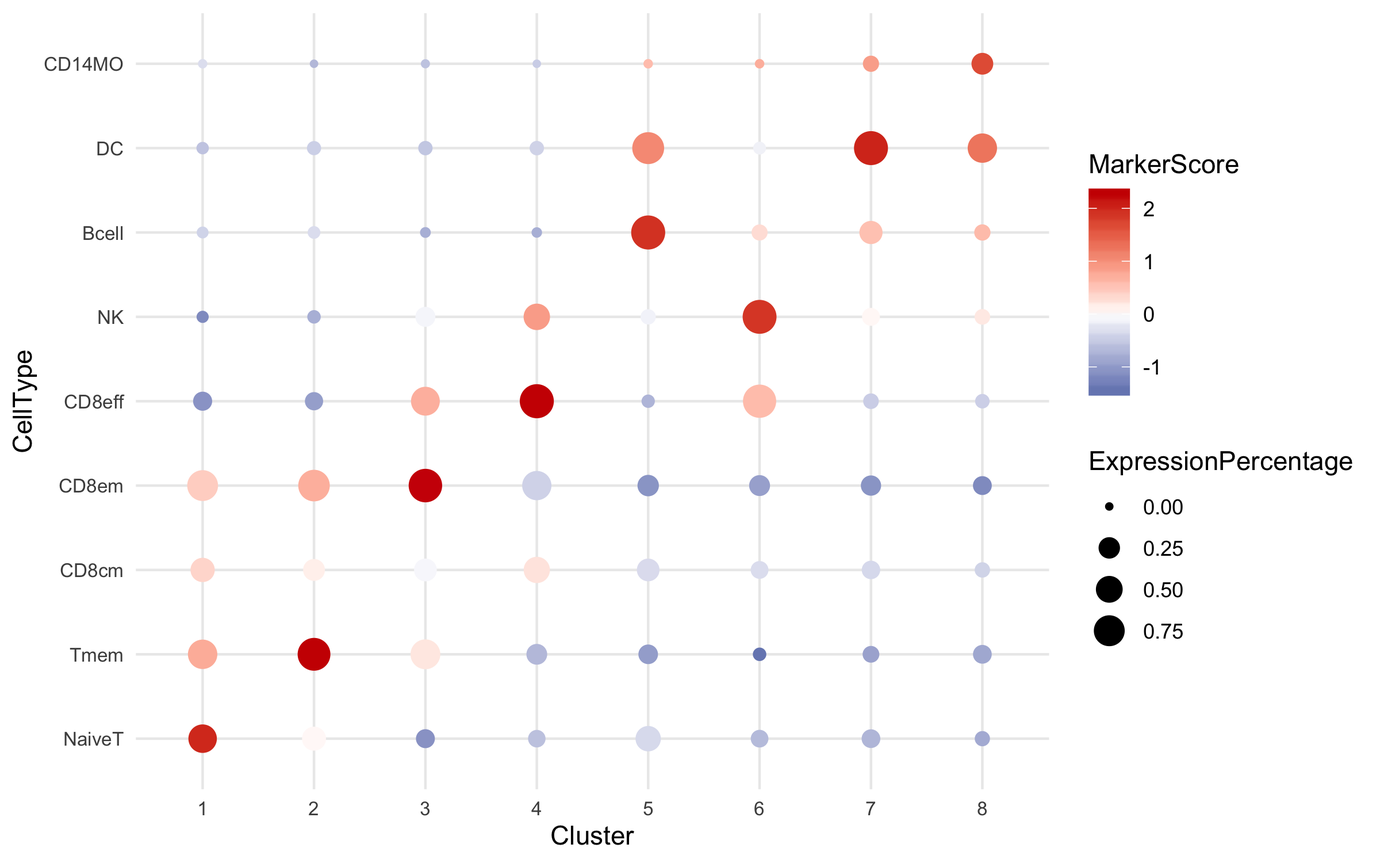
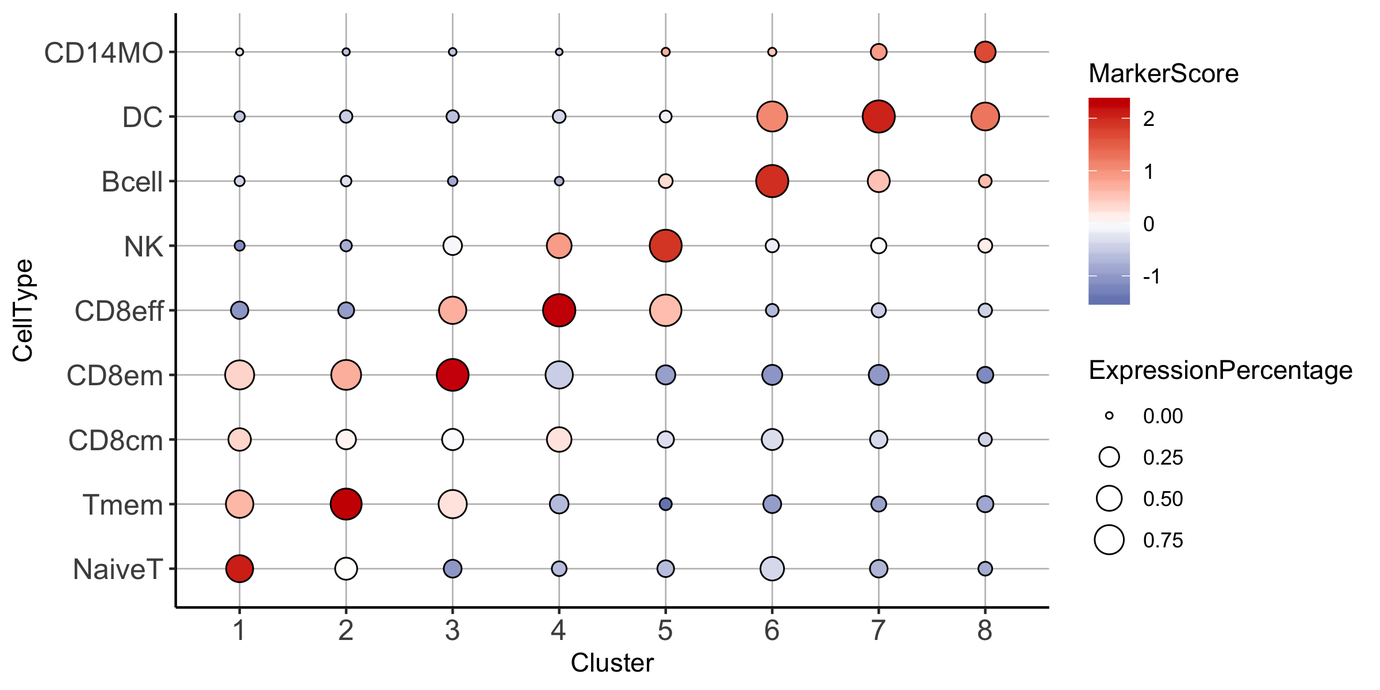
update scMINER tutorial; fix FindDAG and feature_heatmap functions

diff --git a/docs/_site/docs/PBMC-12k.html b/docs/_site/docs/PBMC-12k.html
@@ -209,7 +209,7 @@
 </span><span class="n">exp.log2</span><span class="w"> </span><span class="o">&lt;-</span><span class="w"> </span><span class="nf">log</span><span class="p">(</span><span class="n">exp.norm</span><span class="m">+1</span><span class="p">,</span><span class="n">base</span><span class="o">=</span><span class="m">2</span><span class="p">)</span><span class="w">
 
 </span><span class="c1"># save as SparseEset</span><span class="w">
-</span><span class="n">eset.norm</span><span class="w"> </span><span class="o">&lt;-</span><span class="w"> </span><span class="n">CreateSparseEset</span><span class="p">(</span><span class="n">data</span><span class="o">=</span><span class="n">exp.log2</span><span class="p">,</span><span class="w"> </span><span class="n">meta.data</span><span class="w"> </span><span class="o">=</span><span class="w"> </span><span class="n">pData</span><span class="p">(</span><span class="n">eset.sel</span><span class="p">),</span><span class="w"> </span><span class="n">feature.data</span><span class="w"> </span><span class="o">=</span><span class="w"> </span><span class="n">fData</span><span class="p">(</span><span class="n">eset.sel</span><span class="p">),</span><span class="w"> </span><span class="n">add.meta</span><span class="w"> </span><span class="o">=</span><span class="w"> </span><span class="nb">F</span><span class="p">)</span><span class="w">
+</span><span class="n">eset.log2</span><span class="w"> </span><span class="o">&lt;-</span><span class="w"> </span><span class="n">CreateSparseEset</span><span class="p">(</span><span class="n">data</span><span class="o">=</span><span class="n">exp.log2</span><span class="p">,</span><span class="w"> </span><span class="n">meta.data</span><span class="w"> </span><span class="o">=</span><span class="w"> </span><span class="n">pData</span><span class="p">(</span><span class="n">eset.sel</span><span class="p">),</span><span class="w"> </span><span class="n">feature.data</span><span class="w"> </span><span class="o">=</span><span class="w"> </span><span class="n">fData</span><span class="p">(</span><span class="n">eset.sel</span><span class="p">),</span><span class="w"> </span><span class="n">add.meta</span><span class="w"> </span><span class="o">=</span><span class="w"> </span><span class="nb">F</span><span class="p">)</span><span class="w">
 </span></code></pre></div></div>
 
 <h2 class="d-inline-block" id="step-2-perform-clustering-analysis-via-mica">Step 2: Perform clustering analysis via MICA</h2>
@@ -243,14 +243,14 @@
   <p><strong>Note: All functions are designed compatible for both expressionSet and SparseExpressionSet</strong></p>
 </blockquote>
 
-<p>Users shall start with one particular MICA membership and study your optimal number of cluster with cell type signatures. By setting <code class="highlighter-rouge">load_clust_label</code> as TRUE, clustering label will be saved under <code class="highlighter-rouge">eset$label</code>.</p>
+<p>Users shall start with one particular MICA membership and study your optimal number of cluster with cell type signatures. By setting <code class="highlighter-rouge">load_ClusterRes</code> as TRUE, clustering label will be saved under <code class="highlighter-rouge">eset$ClusterRes</code>.</p>
 
-<div class="language-R highlighter-rouge"><div class="highlight"><pre class="highlight"><code><span class="n">eset.12k</span><span class="w"> </span><span class="o">&lt;-</span><span class="w"> </span><span class="n">readMICAoutput</span><span class="p">(</span><span class="n">Obj</span><span class="w"> </span><span class="o">=</span><span class="w"> </span><span class="n">d.sel</span><span class="p">,</span><span class="w"> </span><span class="n">load_clust_label</span><span class="w"> </span><span class="o">=</span><span class="w"> </span><span class="kc">TRUE</span><span class="p">,</span><span class="w"> </span><span class="n">output_file</span><span class="w"> </span><span class="o">=</span><span class="w"> </span><span class="s2">"MICA/PBMC12k_k8_tsne_ClusterMem.txt"</span><span class="p">)</span><span class="w">
+<div class="language-R highlighter-rouge"><div class="highlight"><pre class="highlight"><code><span class="n">eset</span><span class="w"> </span><span class="o">&lt;-</span><span class="w"> </span><span class="n">readMICAoutput</span><span class="p">(</span><span class="n">eset</span><span class="w"> </span><span class="o">=</span><span class="w"> </span><span class="n">eset.norm</span><span class="p">,</span><span class="w"> </span><span class="n">load_ClusterRes</span><span class="w"> </span><span class="o">=</span><span class="w"> </span><span class="kc">TRUE</span><span class="p">,</span><span class="w"> </span><span class="n">output_file</span><span class="w"> </span><span class="o">=</span><span class="w"> </span><span class="s2">"MICA/PBMC12k_k8_tsne_ClusterMem.txt"</span><span class="p">)</span><span class="w">
 </span></code></pre></div></div>
 
 <p>In order to visualize MICA labels or other metadata on tSNE/UMAP coordinates, your can use function <code class="highlighter-rouge">MICAplot</code>. Users are required to specify <code class="highlighter-rouge">X</code> and <code class="highlighter-rouge">Y</code> coordinates in this function. Other meta data could also be visualized by changing <code class="highlighter-rouge">label</code> handler. This function outputs a ggplot object.</p>
 
-<div class="language-R highlighter-rouge"><div class="highlight"><pre class="highlight"><code><span class="n">MICAplot</span><span class="p">(</span><span class="n">input_eset</span><span class="w"> </span><span class="o">=</span><span class="w"> </span><span class="n">eset.12k</span><span class="p">,</span><span class="n">visualize</span><span class="w"> </span><span class="o">=</span><span class="w"> </span><span class="s1">'tSNE'</span><span class="p">,</span><span class="n">X</span><span class="w"> </span><span class="o">=</span><span class="w"> </span><span class="s2">"X"</span><span class="p">,</span><span class="w"> </span><span class="n">Y</span><span class="o">=</span><span class="s2">"Y"</span><span class="p">,</span><span class="n">label</span><span class="w"> </span><span class="o">=</span><span class="w"> </span><span class="s2">"label"</span><span class="p">,</span><span class="n">pct</span><span class="w"> </span><span class="o">=</span><span class="w"> </span><span class="m">0.5</span><span class="p">)</span><span class="w">
+<div class="language-R highlighter-rouge"><div class="highlight"><pre class="highlight"><code><span class="n">MICAplot</span><span class="p">(</span><span class="n">input_eset</span><span class="w"> </span><span class="o">=</span><span class="w"> </span><span class="n">eset</span><span class="p">,</span><span class="n">visualize</span><span class="w"> </span><span class="o">=</span><span class="w"> </span><span class="s1">'tSNE'</span><span class="p">,</span><span class="n">X</span><span class="w"> </span><span class="o">=</span><span class="w"> </span><span class="s2">"X"</span><span class="p">,</span><span class="w"> </span><span class="n">Y</span><span class="o">=</span><span class="s2">"Y"</span><span class="p">,</span><span class="n">label</span><span class="w"> </span><span class="o">=</span><span class="w"> </span><span class="s2">"label"</span><span class="p">,</span><span class="n">pct</span><span class="w"> </span><span class="o">=</span><span class="w"> </span><span class="m">0.5</span><span class="p">)</span><span class="w">
 </span></code></pre></div></div>
 
 <center><img src="./plots/3_0_MICA_k8.png" alt="MICA" width="600" /></center>
@@ -262,22 +262,22 @@
 <div class="language-R highlighter-rouge"><div class="highlight"><pre class="highlight"><code><span class="n">gn.sel</span><span class="o">&lt;-</span><span class="nf">c</span><span class="p">(</span><span class="s2">"CD3D"</span><span class="p">,</span><span class="s2">"CD27"</span><span class="p">,</span><span class="s2">"IL7R"</span><span class="p">,</span><span class="s2">"SELL"</span><span class="p">,</span><span class="s2">"CCR7"</span><span class="p">,</span><span class="s2">"IL32"</span><span class="p">,</span><span class="s2">"GZMA"</span><span class="p">,</span><span class="w">
           </span><span class="s2">"GZMK"</span><span class="p">,</span><span class="s2">"DUSP2"</span><span class="p">,</span><span class="s2">"CD8A"</span><span class="p">,</span><span class="s2">"GZMH"</span><span class="p">,</span><span class="s2">"GZMB"</span><span class="p">,</span><span class="s2">"CD79A"</span><span class="p">,</span><span class="s2">"CD79B"</span><span class="p">,</span><span class="s2">"CD86"</span><span class="p">,</span><span class="s2">"CD14"</span><span class="p">)</span><span class="w">
 
-</span><span class="n">p</span><span class="w"> </span><span class="o">&lt;-</span><span class="w"> </span><span class="n">feature_highlighting</span><span class="p">(</span><span class="n">input_eset</span><span class="w"> </span><span class="o">=</span><span class="w"> </span><span class="n">eset.12k</span><span class="p">,</span><span class="n">target</span><span class="w"> </span><span class="o">=</span><span class="w"> </span><span class="n">gn.sel</span><span class="p">,</span><span class="w">
-	</span><span class="n">ylabel</span><span class="w"> </span><span class="o">=</span><span class="w"> </span><span class="s2">"log2Exp"</span><span class="p">,</span><span class="w"> </span><span class="n">x</span><span class="o">=</span><span class="s2">"X"</span><span class="p">,</span><span class="n">y</span><span class="o">=</span><span class="s2">"Y"</span><span class="p">,</span><span class="n">title.size</span><span class="w"> </span><span class="o">=</span><span class="w"> </span><span class="m">12</span><span class="p">)</span><span class="w">
+</span><span class="n">p</span><span class="w"> </span><span class="o">&lt;-</span><span class="w"> </span><span class="n">feature_highlighting</span><span class="p">(</span><span class="n">input_eset</span><span class="w"> </span><span class="o">=</span><span class="w"> </span><span class="n">eset</span><span class="p">,</span><span class="w"> </span><span class="n">target</span><span class="w"> </span><span class="o">=</span><span class="w"> </span><span class="n">gn.sel</span><span class="p">,</span><span class="w"> 
+	</span><span class="n">feature</span><span class="o">=</span><span class="s2">"geneSymbol"</span><span class="p">,</span><span class="n">ylabel</span><span class="w"> </span><span class="o">=</span><span class="w"> </span><span class="s2">"log2Exp"</span><span class="p">,</span><span class="w"> </span><span class="n">x</span><span class="o">=</span><span class="s2">"X"</span><span class="p">,</span><span class="n">y</span><span class="o">=</span><span class="s2">"Y"</span><span class="p">,</span><span class="n">pct.size</span><span class="w"> </span><span class="o">=</span><span class="w"> </span><span class="m">0.5</span><span class="p">)</span><span class="w">
 </span></code></pre></div></div>
 
-<center><img src="./plots/3_1_gene_highlighting.png" alt="Scatterplot" width="600" /></center>
+<center><img src="./plots/3_1_gene_highlighting.png" alt="Scatterplot" width="800" /></center>
 
-<div class="language-R highlighter-rouge"><div class="highlight"><pre class="highlight"><code><span class="n">p</span><span class="w"> </span><span class="o">&lt;-</span><span class="w"> </span><span class="n">feature_vlnplot</span><span class="p">(</span><span class="n">eset.12k</span><span class="p">,</span><span class="n">target</span><span class="o">=</span><span class="n">gn.sel</span><span class="p">,</span><span class="n">feature</span><span class="w"> </span><span class="o">=</span><span class="w"> </span><span class="s2">"geneSymbol"</span><span class="p">,</span><span class="w">
-</span><span class="n">group_tag</span><span class="w"> </span><span class="o">=</span><span class="w"> </span><span class="s2">"label"</span><span class="p">,</span><span class="n">ncol</span><span class="w"> </span><span class="o">=</span><span class="w"> </span><span class="m">4</span><span class="p">,</span><span class="n">ylabel</span><span class="w"> </span><span class="o">=</span><span class="w"> </span><span class="s2">"log2Exp"</span><span class="p">)</span><span class="w">
+<div class="language-R highlighter-rouge"><div class="highlight"><pre class="highlight"><code><span class="n">p</span><span class="w"> </span><span class="o">&lt;-</span><span class="w"> </span><span class="n">feature_vlnplot</span><span class="p">(</span><span class="n">input_eset</span><span class="o">=</span><span class="n">eset</span><span class="p">,</span><span class="n">target</span><span class="o">=</span><span class="n">gn.sel</span><span class="p">,</span><span class="n">feature</span><span class="w"> </span><span class="o">=</span><span class="w"> </span><span class="s2">"geneSymbol"</span><span class="p">,</span><span class="w">
+	</span><span class="n">group_tag</span><span class="w"> </span><span class="o">=</span><span class="w"> </span><span class="s2">"ClusterRes"</span><span class="p">,</span><span class="n">ylabel</span><span class="w"> </span><span class="o">=</span><span class="w"> </span><span class="s2">"log2Exp"</span><span class="p">,</span><span class="n">ncol</span><span class="w"> </span><span class="o">=</span><span class="w"> </span><span class="m">4</span><span class="p">)</span><span class="w">
 </span></code></pre></div></div>
-<center><img src="./plots/3_2_gene_highlighting_vlnplot.png" alt="violinplot" width="600" /></center>
+<center><img src="./plots/3_2_gene_highlighting_vlnplot.png" alt="violinplot" width="800" /></center>
 
-<div class="language-R highlighter-rouge"><div class="highlight"><pre class="highlight"><code><span class="n">feature_heatmap</span><span class="p">(</span><span class="n">eset</span><span class="w"> </span><span class="o">=</span><span class="w"> </span><span class="n">eset.12k</span><span class="p">,</span><span class="n">target</span><span class="w"> </span><span class="o">=</span><span class="w"> </span><span class="n">gn.sel</span><span class="p">,</span><span class="n">group_tag</span><span class="w"> </span><span class="o">=</span><span class="w"> </span><span class="s2">"label"</span><span class="p">,</span><span class="w">
-			 </span><span class="n">save_plot</span><span class="w"> </span><span class="o">=</span><span class="w"> </span><span class="kc">TRUE</span><span class="p">,</span><span class="n">width</span><span class="w"> </span><span class="o">=</span><span class="w"> </span><span class="m">6</span><span class="p">,</span><span class="n">height</span><span class="w"> </span><span class="o">=</span><span class="w"> </span><span class="m">6</span><span class="p">,</span><span class="w">
+<div class="language-R highlighter-rouge"><div class="highlight"><pre class="highlight"><code><span class="n">feature_heatmap</span><span class="p">(</span><span class="n">eset</span><span class="w"> </span><span class="o">=</span><span class="w"> </span><span class="n">eset</span><span class="p">,</span><span class="w"> </span><span class="n">target</span><span class="w"> </span><span class="o">=</span><span class="w"> </span><span class="n">gn.sel</span><span class="p">,</span><span class="n">group_tag</span><span class="w"> </span><span class="o">=</span><span class="w"> </span><span class="s2">"ClusterRes"</span><span class="p">,</span><span class="w">
+			 	</span><span class="n">save_plot</span><span class="w"> </span><span class="o">=</span><span class="w"> </span><span class="kc">TRUE</span><span class="p">,</span><span class="n">width</span><span class="w"> </span><span class="o">=</span><span class="w"> </span><span class="m">6</span><span class="p">,</span><span class="n">height</span><span class="w"> </span><span class="o">=</span><span class="w"> </span><span class="m">6</span><span class="p">,</span><span class="w">
              </span><span class="n">name</span><span class="w"> </span><span class="o">=</span><span class="w"> </span><span class="s2">"log2_expression"</span><span class="p">,</span><span class="n">plot_name</span><span class="o">=</span><span class="s2">"./GeneHeatmap.png"</span><span class="p">)</span><span class="w">
 </span></code></pre></div></div>
-<center><img src="./plots/3_3_Marker_heatmaps.png" alt="heatmaps" width="600" /></center>
+<center><img src="./plots/3_3_Marker_heatmaps.png" alt="heatmaps" width="800" /></center>
 
 <h3 id="assign-cell-type-to-cluster">Assign cell type to cluster</h3>
 
@@ -294,15 +294,18 @@
 </span><span class="m">5</span><span class="w">     </span><span class="n">Tmem</span><span class="w">    </span><span class="n">IL32</span><span class="w">      </span><span class="m">1</span><span class="w">
 </span><span class="m">6</span><span class="w">     </span><span class="n">Tmem</span><span class="w">    </span><span class="n">GZMA</span><span class="w">     </span><span class="m">-1</span><span class="w">
 
-</span><span class="n">p</span><span class="o">&lt;-</span><span class="n">marker_bbplot</span><span class="p">(</span><span class="n">ref</span><span class="o">=</span><span class="n">ref</span><span class="p">,</span><span class="n">eset</span><span class="o">=</span><span class="n">eset.12k</span><span class="p">)</span><span class="w">
+</span><span class="n">marker_bbplot</span><span class="p">(</span><span class="n">ref</span><span class="o">=</span><span class="n">ref</span><span class="p">,</span><span class="n">eset</span><span class="o">=</span><span class="n">eset</span><span class="p">,</span><span class="n">width</span><span class="w"> </span><span class="o">=</span><span class="w"> </span><span class="m">6</span><span class="p">,</span><span class="n">height</span><span class="o">=</span><span class="m">4</span><span class="p">,</span><span class="w"> </span><span class="n">feature</span><span class="w"> </span><span class="o">=</span><span class="w"> </span><span class="s2">"geneSymbol"</span><span class="p">,</span><span class="n">group_tag</span><span class="w"> </span><span class="o">=</span><span class="w"> </span><span class="s2">"ClusterRes"</span><span class="p">,</span><span class="w">
+                   </span><span class="n">save_plot</span><span class="w"> </span><span class="o">=</span><span class="w"> </span><span class="kc">TRUE</span><span class="p">,</span><span class="w"> </span><span class="n">plot_name</span><span class="w"> </span><span class="o">=</span><span class="w"> </span><span class="s2">"plots/MICA_cluster_score.png"</span><span class="p">)</span><span class="w">
+
 </span></code></pre></div></div>
-<center><img src="./plots/3_4_MICA_cluster_score.png" alt="Markerbbp" width="600" /></center>
+<center><img src="./plots/3_4_MICA_cluster_score.png" alt="Markerbbp" width="800" /></center>
 
 <p>Before diving into network generation section, please assign your celltype as factors in your expression set. <strong>Please do not include “_” in your cell type names since it will cause mis-parsing in later analysis</strong>.</p>
 
-<div class="language-R highlighter-rouge"><div class="highlight"><pre class="highlight"><code><span class="n">indx</span><span class="o">&lt;-</span><span class="n">factor</span><span class="p">(</span><span class="n">x</span><span class="o">=</span><span class="nf">c</span><span class="p">(</span><span class="s2">"NaiveT"</span><span class="p">,</span><span class="s2">"Tmem"</span><span class="p">,</span><span class="s2">"CD8em"</span><span class="p">,</span><span class="s2">"CD8eff"</span><span class="p">,</span><span class="s2">"Bcell"</span><span class="p">,</span><span class="s2">"NK"</span><span class="p">,</span><span class="s2">"DC"</span><span class="p">,</span><span class="s2">"Mo"</span><span class="p">),</span><span class="w">
-				</span><span class="n">levels</span><span class="o">=</span><span class="nf">c</span><span class="p">(</span><span class="s2">"NaiveT"</span><span class="p">,</span><span class="s2">"Tmem"</span><span class="p">,</span><span class="s2">"CD8em"</span><span class="p">,</span><span class="s2">"CD8eff"</span><span class="p">,</span><span class="s2">"Bcell"</span><span class="p">,</span><span class="s2">"NK"</span><span class="p">,</span><span class="s2">"DC"</span><span class="p">,</span><span class="s2">"Mo"</span><span class="p">))</span><span class="w">
-</span><span class="n">eset.12k</span><span class="o">$</span><span class="n">celltype</span><span class="w"> </span><span class="o">&lt;-</span><span class="w"> </span><span class="n">indx</span><span class="p">[</span><span class="n">eset.12k</span><span class="o">$</span><span class="n">label</span><span class="p">]</span><span class="w">
+<div class="language-R highlighter-rouge"><div class="highlight"><pre class="highlight"><code><span class="n">indx</span><span class="o">&lt;-</span><span class="n">factor</span><span class="p">(</span><span class="n">x</span><span class="o">=</span><span class="nf">c</span><span class="p">(</span><span class="s2">"NaiveT"</span><span class="p">,</span><span class="s2">"Tmem"</span><span class="p">,</span><span class="s2">"CD8em"</span><span class="p">,</span><span class="s2">"CD8eff"</span><span class="p">,</span><span class="s2">"NK"</span><span class="p">,</span><span class="s2">"Bcell"</span><span class="p">,</span><span class="s2">"DC"</span><span class="p">,</span><span class="s2">"Mo"</span><span class="p">),</span><span class="w">
+             </span><span class="n">levels</span><span class="o">=</span><span class="nf">c</span><span class="p">(</span><span class="s2">"NaiveT"</span><span class="p">,</span><span class="s2">"Tmem"</span><span class="p">,</span><span class="s2">"CD8em"</span><span class="p">,</span><span class="s2">"CD8eff"</span><span class="p">,</span><span class="s2">"NK"</span><span class="p">,</span><span class="s2">"Bcell"</span><span class="p">,</span><span class="s2">"DC"</span><span class="p">,</span><span class="s2">"Mo"</span><span class="p">))</span><span class="w">
+</span><span class="n">eset</span><span class="o">$</span><span class="n">celltype</span><span class="w"> </span><span class="o">&lt;-</span><span class="w"> </span><span class="n">indx</span><span class="p">[</span><span class="n">eset</span><span class="o">$</span><span class="n">ClusterRes</span><span class="p">]</span><span class="w">
+
 </span></code></pre></div></div>
 
 <h2 id="step-4-network-generation-via-sjaracne">Step 4: Network generation via SJARACNe</h2>
@@ -340,7 +343,7 @@ done
 <h3 id="calculate-activity">Calculate activity</h3>
 <p>Activity calculation is the basis of driver estimation in scMINER. To infer driver activity, expression profile of their targets are intergrated via function <code class="highlighter-rouge">GetActivityFromSJARACNe</code>. This function takes SJARACNe output path and expression set as input, and return an activity set as well as structured network files if set 	<code class="highlighter-rouge">save_network_files=TRUE</code>.</p>
 
-<p>Since scRNA-seq data are extremly sparse and noisy, we strongly recommend to set <code class="highlighter-rouge">activity.method</code> as <code class="highlighter-rouge">'unweighted'</code>.</p>
+<p>Since scRNA-seq data are extremly sparse and noisy, please set <code class="highlighter-rouge">activity.method</code> as <code class="highlighter-rouge">'unweighted'</code>.</p>
 
 <div class="language-R highlighter-rouge"><div class="highlight"><pre class="highlight"><code><span class="n">acs.12k</span><span class="w"> </span><span class="o">&lt;-</span><span class="w"> </span><span class="n">GetActivityFromSJARACNe</span><span class="p">(</span><span class="w">
     </span><span class="n">SJARACNe_output_path</span><span class="w"> </span><span class="o">=</span><span class="s2">"SJARACNE/"</span><span class="p">,</span><span class="w">
@@ -368,16 +371,15 @@ done
 
 <p>In scMINER, we provide a handful of visualizations to compare driver activity from different cell type/clusters. Here we demo two basic functions: <code class="highlighter-rouge">feature_heatmap</code> and <code class="highlighter-rouge">feature_vlnplot</code>. These functions could be used on either expression and activty matrix.</p>
 
-<div class="language-R highlighter-rouge"><div class="highlight"><pre class="highlight"><code><span class="n">feature_heatmap</span><span class="p">(</span><span class="n">eset</span><span class="w"> </span><span class="o">=</span><span class="w"> </span><span class="n">acs.12k</span><span class="p">,</span><span class="n">target</span><span class="w"> </span><span class="o">=</span><span class="w"> </span><span class="n">TF_list</span><span class="p">,</span><span class="n">group_tag</span><span class="w"> </span><span class="o">=</span><span class="w"> </span><span class="s2">"celltype"</span><span class="p">,</span><span class="n">feature</span><span class="w"> </span><span class="o">=</span><span class="w"> </span><span class="s2">"geneSymbol"</span><span class="p">,</span><span class="w">
+<div class="language-R highlighter-rouge"><div class="highlight"><pre class="highlight"><code><span class="n">feature_heatmap</span><span class="p">(</span><span class="n">input_eset</span><span class="w"> </span><span class="o">=</span><span class="w"> </span><span class="n">acs.12k</span><span class="p">,</span><span class="n">target</span><span class="w"> </span><span class="o">=</span><span class="w"> </span><span class="n">TF_list</span><span class="p">,</span><span class="n">group_tag</span><span class="w"> </span><span class="o">=</span><span class="w"> </span><span class="s2">"celltype"</span><span class="p">,</span><span class="n">feature</span><span class="w"> </span><span class="o">=</span><span class="w"> </span><span class="s2">"geneSymbol"</span><span class="p">,</span><span class="w">
              </span><span class="n">width</span><span class="w"> </span><span class="o">=</span><span class="w"> </span><span class="m">6</span><span class="p">,</span><span class="n">height</span><span class="w"> </span><span class="o">=</span><span class="w"> </span><span class="m">6</span><span class="p">,</span><span class="w"> </span><span class="n">save_plot</span><span class="o">=</span><span class="kc">TRUE</span><span class="p">,</span><span class="w"> </span><span class="n">cluster_rows</span><span class="w"> </span><span class="o">=</span><span class="w"> </span><span class="kc">FALSE</span><span class="p">,</span><span class="w">
              </span><span class="n">name</span><span class="w"> </span><span class="o">=</span><span class="w"> </span><span class="s2">"Activity"</span><span class="p">,</span><span class="n">plot_name</span><span class="o">=</span><span class="s2">"./21_TopTFHeatmap.png"</span><span class="p">)</span><span class="w">
 </span></code></pre></div></div>
 <center><img src="./plots/4_1_TopTFHeatmap.png" alt="Driver heatmap" width="550" /></center>
 
 <div class="language-R highlighter-rouge"><div class="highlight"><pre class="highlight"><code><span class="c1">#check postive controls</span><span class="w">
-</span><span class="n">p</span><span class="w"> </span><span class="o">&lt;-</span><span class="w"> </span><span class="n">feature_vlnplot</span><span class="p">(</span><span class="n">eset</span><span class="o">=</span><span class="n">acs.12k</span><span class="p">,</span><span class="n">target</span><span class="o">=</span><span class="nf">c</span><span class="p">(</span><span class="s2">"LEF1"</span><span class="p">,</span><span class="s2">"TCF7"</span><span class="p">,</span><span class="s2">"BATF"</span><span class="p">,</span><span class="s2">"TCF7"</span><span class="p">,</span><span class="s2">"TBX21"</span><span class="p">,</span><span class="s2">"IRF8"</span><span class="p">,</span><span class="s2">"SPIB"</span><span class="p">,</span><span class="s2">"BATF3"</span><span class="p">,</span><span class="s2">"CEBPA"</span><span class="p">),</span><span class="w"> 
-						</span><span class="n">ylabel</span><span class="w"> </span><span class="o">=</span><span class="w"> </span><span class="s2">"Activity"</span><span class="p">,</span><span class="w">
-						</span><span class="n">group_tag</span><span class="w"> </span><span class="o">=</span><span class="w"> </span><span class="s2">"celltype"</span><span class="p">,</span><span class="n">feature</span><span class="o">=</span><span class="s2">"geneSymbol"</span><span class="p">,</span><span class="w"> </span><span class="n">ncol</span><span class="w"> </span><span class="o">=</span><span class="w"> </span><span class="m">2</span><span class="p">)</span><span class="w">
+</span><span class="n">p</span><span class="o">&lt;-</span><span class="n">feature_vlnplot</span><span class="p">(</span><span class="n">input_eset</span><span class="w"> </span><span class="o">=</span><span class="w"> </span><span class="n">acs.12k</span><span class="p">,</span><span class="n">feature</span><span class="w"> </span><span class="o">=</span><span class="w"> </span><span class="s2">"geneSymbol"</span><span class="p">,</span><span class="n">target</span><span class="o">=</span><span class="nf">c</span><span class="p">(</span><span class="s2">"LEF1"</span><span class="p">,</span><span class="s2">"TCF7"</span><span class="p">,</span><span class="s2">"BATF"</span><span class="p">,</span><span class="s2">"TBX21"</span><span class="p">,</span><span class="s2">"IRF8"</span><span class="p">,</span><span class="s2">"SPIB"</span><span class="p">,</span><span class="s2">"BATF3"</span><span class="p">,</span><span class="s2">"CEBPA"</span><span class="p">),</span><span class="w">
+                    </span><span class="n">ylabel</span><span class="w"> </span><span class="o">=</span><span class="w"> </span><span class="s2">"Activity"</span><span class="p">,</span><span class="n">group_tag</span><span class="w"> </span><span class="o">=</span><span class="w"> </span><span class="s2">"celltype"</span><span class="p">,</span><span class="n">ncol</span><span class="o">=</span><span class="m">2</span><span class="p">)</span><span class="w">
 </span></code></pre></div></div>
 <center><img src="./plots/4_2_Known_MR_vlnplot.png" alt="Driver heatmap" width="600" /></center>
 

diff --git a/docs/docs/PBMC-12k.md b/docs/docs/PBMC-12k.md
@@ -77,7 +77,7 @@ exp.norm <- sweep(exprs(eset.sel), 2, norm/unname(Matrix::colSums(exprs(eset.sel
 exp.log2 <- log(exp.norm+1,base=2)
 
 # save as SparseEset
-eset.norm <- CreateSparseEset(data=exp.log2, meta.data = pData(eset.sel), feature.data = fData(eset.sel), add.meta = F)
+eset.log2 <- CreateSparseEset(data=exp.log2, meta.data = pData(eset.sel), feature.data = fData(eset.sel), add.meta = F)
 ```
 
 
@@ -118,16 +118,16 @@ After clustering via MICA, with function `readMICAoutput`, you can load MICA out
 
 > **Note: All functions are designed compatible for both expressionSet and SparseExpressionSet** 
 
-Users shall start with one particular MICA membership and study your optimal number of cluster with cell type signatures. By setting `load_clust_label` as TRUE, clustering label will be saved under `eset$label`.
+Users shall start with one particular MICA membership and study your optimal number of cluster with cell type signatures. By setting `load_ClusterRes` as TRUE, clustering label will be saved under `eset$ClusterRes`.
 
 ```R
-eset.12k <- readMICAoutput(Obj = d.sel, load_clust_label = TRUE, output_file = "MICA/PBMC12k_k8_tsne_ClusterMem.txt")
+eset <- readMICAoutput(eset = eset.norm, load_ClusterRes = TRUE, output_file = "MICA/PBMC12k_k8_tsne_ClusterMem.txt")
 ```
 
 In order to visualize MICA labels or other metadata on tSNE/UMAP coordinates, your can use function `MICAplot`. Users are required to specify `X` and `Y` coordinates in this function. Other meta data could also be visualized by changing `label` handler. This function outputs a ggplot object. 
 
 ```R
-MICAplot(input_eset = eset.12k,visualize = 'tSNE',X = "X", Y="Y",label = "label",pct = 0.5)
+MICAplot(input_eset = eset,visualize = 'tSNE',X = "X", Y="Y",label = "label",pct = 0.5)
 ```
 
 <center><img src="./plots/3_0_MICA_k8.png" alt="MICA" width="600"></center>
@@ -141,25 +141,25 @@ Picked marker genes could be visualized on t-SNE scatterplot, violin plot or hea
 gn.sel<-c("CD3D","CD27","IL7R","SELL","CCR7","IL32","GZMA",
           "GZMK","DUSP2","CD8A","GZMH","GZMB","CD79A","CD79B","CD86","CD14")
 
-p <- feature_highlighting(input_eset = eset.12k,target = gn.sel,
-	ylabel = "log2Exp", x="X",y="Y",title.size = 12)
+p <- feature_highlighting(input_eset = eset, target = gn.sel, 
+	feature="geneSymbol",ylabel = "log2Exp", x="X",y="Y",pct.size = 0.5)
 ```
 
-<center><img src="./plots/3_1_gene_highlighting.png" alt="Scatterplot" width="600"></center>
+<center><img src="./plots/3_1_gene_highlighting.png" alt="Scatterplot" width="800"></center>
 
 ```R
-p <- feature_vlnplot(eset.12k,target=gn.sel,feature = "geneSymbol",
-group_tag = "label",ncol = 4,ylabel = "log2Exp")
+p <- feature_vlnplot(input_eset=eset,target=gn.sel,feature = "geneSymbol",
+	group_tag = "ClusterRes",ylabel = "log2Exp",ncol = 4)
 ```
-<center><img src="./plots/3_2_gene_highlighting_vlnplot.png" alt="violinplot" width="600"></center>
+<center><img src="./plots/3_2_gene_highlighting_vlnplot.png" alt="violinplot" width="800"></center>
 
 
 ```R
-feature_heatmap(eset = eset.12k,target = gn.sel,group_tag = "label",
-			 save_plot = TRUE,width = 6,height = 6,
+feature_heatmap(eset = eset, target = gn.sel,group_tag = "ClusterRes",
+			 	save_plot = TRUE,width = 6,height = 6,
              name = "log2_expression",plot_name="./GeneHeatmap.png")
 ```
-<center><img src="./plots/3_3_Marker_heatmaps.png" alt="heatmaps" width="600"></center>
+<center><img src="./plots/3_3_Marker_heatmaps.png" alt="heatmaps" width="800"></center>
 
 
 
@@ -180,18 +180,21 @@ head(ref)
 5     Tmem    IL32      1
 6     Tmem    GZMA     -1
 
-p<-marker_bbplot(ref=ref,eset=eset.12k)
+marker_bbplot(ref=ref,eset=eset,width = 6,height=4, feature = "geneSymbol",group_tag = "ClusterRes",
+                   save_plot = TRUE, plot_name = "plots/MICA_cluster_score.png")
+
 ```
-<center><img src="./plots/3_4_MICA_cluster_score.png" alt="Markerbbp" width="600"/></center>
+<center><img src="./plots/3_4_MICA_cluster_score.png" alt="Markerbbp" width="800"/></center>
 
 
 
 Before diving into network generation section, please assign your celltype as factors in your expression set. **Please do not include "_" in your cell type names since it will cause mis-parsing in later analysis**.
 
 ```R
-indx<-factor(x=c("NaiveT","Tmem","CD8em","CD8eff","Bcell","NK","DC","Mo"),
-				levels=c("NaiveT","Tmem","CD8em","CD8eff","Bcell","NK","DC","Mo"))
-eset.12k$celltype <- indx[eset.12k$label]
+indx<-factor(x=c("NaiveT","Tmem","CD8em","CD8eff","NK","Bcell","DC","Mo"),
+             levels=c("NaiveT","Tmem","CD8em","CD8eff","NK","Bcell","DC","Mo"))
+eset$celltype <- indx[eset$ClusterRes]
+
 ```
 
 
@@ -236,7 +239,7 @@ Identify hidden driver from content-based network is the key step in scMINER to 
 {: no_toc }
 Activity calculation is the basis of driver estimation in scMINER. To infer driver activity, expression profile of their targets are intergrated via function `GetActivityFromSJARACNe`. This function takes SJARACNe output path and expression set as input, and return an activity set as well as structured network files if set 	`save_network_files=TRUE`. 
 
-Since scRNA-seq data are extremly sparse and noisy, we strongly recommend to set `activity.method` as `'unweighted'`. 
+Since scRNA-seq data are extremly sparse and noisy, please set `activity.method` as `'unweighted'`. 
 
 ```R
 acs.12k <- GetActivityFromSJARACNe(
@@ -271,7 +274,7 @@ TF_list <- TopDriversfromDAG(DAG_result = DAG_result,
 In scMINER, we provide a handful of visualizations to compare driver activity from different cell type/clusters. Here we demo two basic functions: `feature_heatmap` and `feature_vlnplot`. These functions could be used on either expression and activty matrix.
 
 ```R
-feature_heatmap(eset = acs.12k,target = TF_list,group_tag = "celltype",feature = "geneSymbol",
+feature_heatmap(input_eset = acs.12k,target = TF_list,group_tag = "celltype",feature = "geneSymbol",
              width = 6,height = 6, save_plot=TRUE, cluster_rows = FALSE,
              name = "Activity",plot_name="./21_TopTFHeatmap.png")
 ```
@@ -280,9 +283,8 @@ feature_heatmap(eset = acs.12k,target = TF_list,group_tag = "celltype",feature =
 
 ```R
 #check postive controls
-p <- feature_vlnplot(eset=acs.12k,target=c("LEF1","TCF7","BATF","TCF7","TBX21","IRF8","SPIB","BATF3","CEBPA"), 
-						ylabel = "Activity",
-						group_tag = "celltype",feature="geneSymbol", ncol = 2)
+p<-feature_vlnplot(input_eset = acs.12k,feature = "geneSymbol",target=c("LEF1","TCF7","BATF","TBX21","IRF8","SPIB","BATF3","CEBPA"),
+                    ylabel = "Activity",group_tag = "celltype",ncol=2)
 ```
 <center><img src="./plots/4_2_Known_MR_vlnplot.png" alt="Driver heatmap" width="600"></center>
 
